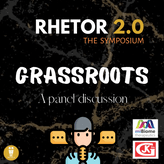
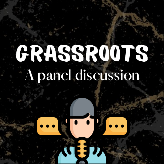
imag

diff --git a/rhetor1/events.html b/rhetor1/events.html
@@ -93,19 +93,17 @@
           <div class="modal-dialog modal-dialog-scrollable">
             <div class="modal-content">
               <div class="modal-header">
-                <h5 class="modal-title" id="ModalLabel1">Coming soon..</h5>
+                <h5 class="modal-title" id="ModalLabel1">Grassroots</h5>
                 <button type="button" class="close" data-dismiss="modal" aria-label="Close">
                   <span aria-hidden="true">&times;</span>
                 </button>
               </div>
               <div class="modal-body">
-                <p>Coming Soon
+                <p> Wondering how to apply for internships? How to manage your grades? Join us on our panel discussion with people from SoB, SoM, SoC and SoP and get all our queries clarified. <br>
+                For IISER-TVM students only.<br>
                 <strong>Stay Tuned!</strong>
               </p>
             </div>
-            <div class="modal-footer">
-              <input type="button" class="btn btn-primary" onclick="location.href='';" value="Click here" />
-              </div>
             </div>
           </div>
         </div>

diff --git a/rhetor1/Schedule/index.html b/rhetor1/Schedule/index.html
@@ -141,9 +141,10 @@
                         <div class="circle"><span class="homebox"><img src="../../images/rhetor/Schedule/Grassroots.png" class="img"></span></div>
                         <div class="content">
                             <span class="year"><b>Grassroots</b></span>
-                            <h3 class="title h4">Coming soon...</h3>
+                            <h3 class="title h4">A Panel Discussion</h3>
                             <p class="description">
-                                Coming soon...
+                              Grassroots, a panel discussion. Wondering how to apply for internships? How to manage your grades? Join us on our panel discussion with people from SoB, SoM, SoC and SoP and get all our queries clarified.<br>
+                              For IISER-TVM students only.
                             </p>
                             <div class="icon"><span></span></div>
                         </div>
